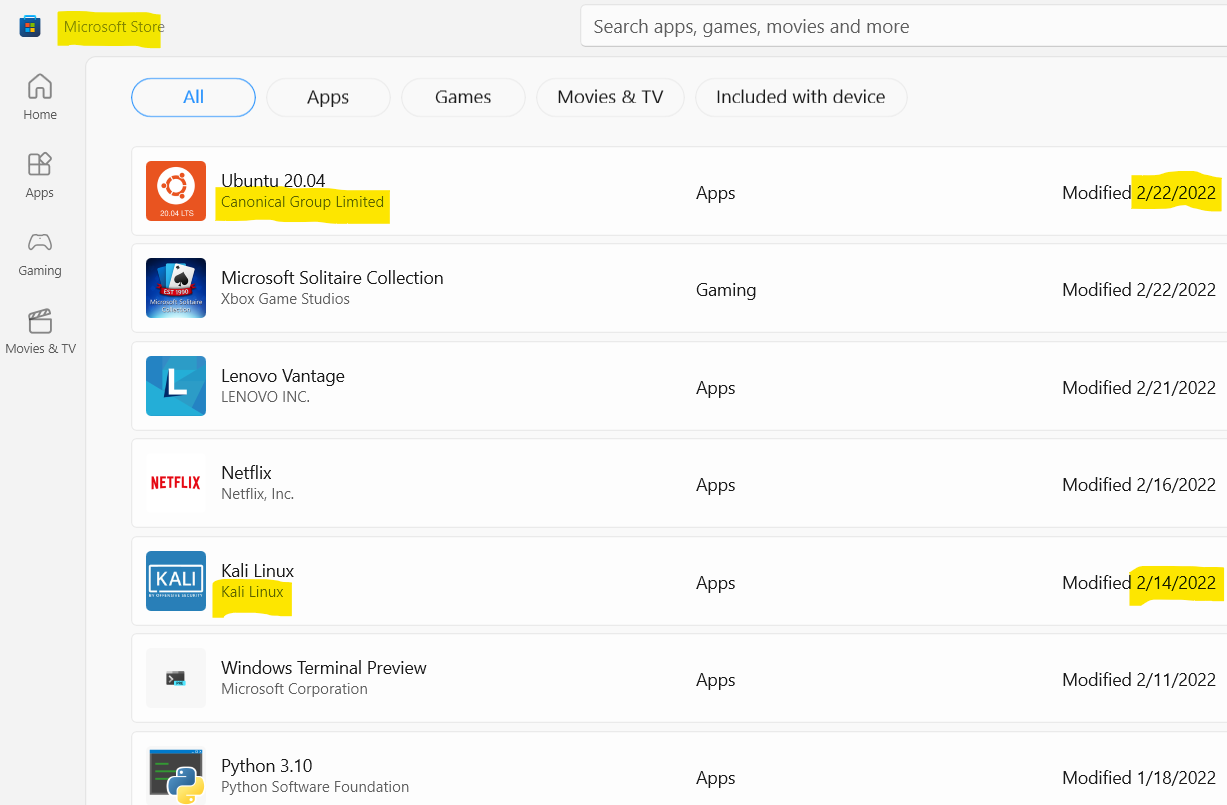
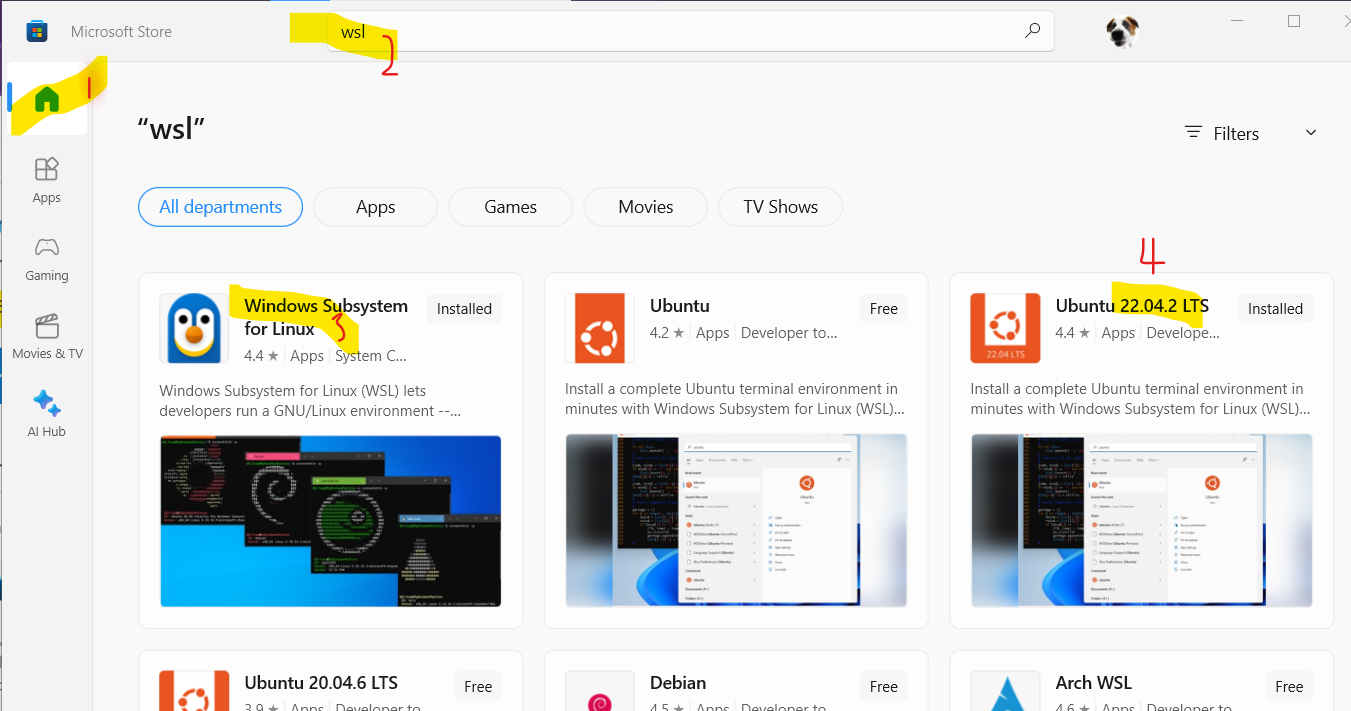
update for ubuntu

diff --git a/README.md b/README.md
@@ -1,44 +1,53 @@
-# kali-linux on Windows Subsystem for Linux (WSL)
+# Ubuntu on Windows Subsystem for Linux (WSL)
 
 ## WSL documentation
 
-For users running on Windows 10 / 11 there is support out of the box already for WSL: https://docs.microsoft.com/en-us/windows/wsl
+For users running on Windows 10 / 11 there is support out of the box already for WSL: <a href="https://docs.microsoft.com/en-us/windows/wsl" target="_blank">https://docs.microsoft.com/en-us/windows/wsl</a>
+
 
 <img src="wsl-documentation.png" alt="WSL documentation">
 
 
 ## Windows App Store
 
-All the kernels are directly supported and **patched** by the vendors on Microsoft App Store: https://www.microsoft.com/en-us/p/kali-linux/9pkr34tncv07
+All the kernels are directly supported and **patched** by the vendors on Microsoft App Store: <a href="https://apps.microsoft.com/store/detail/ubuntu-22042-lts/9PN20MSR04DW" target="_blank">https://apps.microsoft.com/store/detail/ubuntu-22042-lts/9PN20MSR04DW</a>
 
 <img src="Microsoft-Store.png" alt="Windows App Store">
 
 
-## Installing VirtualBox and Kali
+## Installing WSL2 and Ubuntu
 
-Instalation is as simple as the command below (that's it, nothing else): 
+Just hover over the 'Windows Subsystem for Linux' tile, click on 'Get' button, then follow the instructions. You would probably need to admin rigths and most likely will need to reboot.
+Then you can install Ubuntu 22.04.2 LTS (as of now it is the latest LTS), hover over the tile, click on 'Get' button, then follow the instructions. You do not need admin rigths and not need to reboot.
+
+The advantage of doing it with the app store is that you will get automatic updates both for WSL and Ubuntu. BTW, I also installed Visual Studio Code via the app store to get automatic updates as well.
+
+NOTE: You can do all that from the command line with out using the app store, there are instructions on the above links, but why go tru the hasle.
+
+
+## Fully supported by Canonical
+
+Fully suported by **canonical.com**: <a href="https://ubuntu.com/wsl" target="_blank">https://ubuntu.com/wsl</a>
+
+The link above provides plenty of documentation if needed: installation on WSL2, using GPU for machine learning, using VS Code, etc.
+
+
+## Visual Studio Code
+
+Just install VS Code also from the app store, and follow these tutorials:
+- <a href="https://ubuntu.com/tutorials/working-with-visual-studio-code-on-ubuntu-on-wsl2" target="_blank">https://ubuntu.com/tutorials/working-with-visual-studio-code-on-ubuntu-on-wsl2</a> Only follow steps 1-4, the rest of the steps are for NodeJS.
+- <a href="https://code.visualstudio.com/docs/languages/cpp" target="_blank">https://code.visualstudio.com/docs/languages/cpp</a> read, go to 'Go to the GCC tutorial'
+- <a href="https://code.visualstudio.com/docs/cpp/config-linux" target="_blank">https://code.visualstudio.com/docs/cpp/config-linux</a>
+
+Now you have your C/C++ Ubuntu environment fully integrated with VS Code: full debugging, syntax highling, etc. 
+
+Just open Ubuntu and from the shell clone your git repo and from the repo just type: 
+
 ```
-wsl --install -d kali-linux
-```
-<img src="kali-install.png" alt="Kali Installation">
-
-Then, update the packages needed by **CodePath**: https://github.com/0xrutvij/wpVSkali/blob/main/Dockerfile#L10
-```
-apt install aircrack-ng crackmapexec crunch curl dirb dirbuster dnsenum dnsrecon dnsutils dos2unix enum4linux exploitdb ftp git gawk gobuster hashcat hping3 hydra impacket-scripts john joomscan masscan metasploit-framework mimikatz nano nasm ncat netcat-traditional nikto nmap patator iputils-ping php powersploit proxychains python3-impacket python3-pip python2 python3 recon-ng responder samba samdump2 smbclient smbmap snmp socat sqlmap sslscan theharvester vim wafw00f weevely wfuzz wget whois wordlists wpscan -y --no-install-recommends
+code .
 ```
 
-## Fully supported by developers
-
-Fully suported by **kali.org**: https://www.kali.org/docs/wsl
-
-<img src="kali-support.png" alt="Kali support">
-
-
-## Docker support
-
-It fully suports **docker** if installed. Not only that but on windows the prefered virtualization engine is WSL: https://docs.docker.com/desktop/windows/wsl
-
-<img src="docker-support.png" alt="Docker support">
+<img src="ubuntu-debbuging.png" alt="Windows App Store">
 
 
 ## Full host integration

diff --git a/kali.md b/kali.md
@@ -1,0 +1,48 @@
+# kali-linux on Windows Subsystem for Linux (WSL)
+
+## WSL documentation
+
+For users running on Windows 10 / 11 there is support out of the box already for WSL: https://docs.microsoft.com/en-us/windows/wsl
+
+<img src="wsl-documentation.png" alt="WSL documentation">
+
+
+## Windows App Store
+
+All the kernels are directly supported and **patched** by the vendors on Microsoft App Store: https://www.microsoft.com/en-us/p/kali-linux/9pkr34tncv07
+
+<img src="Microsoft-Store.png" alt="Windows App Store">
+
+
+## Installing VirtualBox and Kali
+
+Instalation is as simple as the command below (that's it, nothing else): 
+```
+wsl --install -d kali-linux
+```
+<img src="kali-install.png" alt="Kali Installation">
+
+Then, update the packages needed by **CodePath**: https://github.com/0xrutvij/wpVSkali/blob/main/Dockerfile#L10
+```
+apt install aircrack-ng crackmapexec crunch curl dirb dirbuster dnsenum dnsrecon dnsutils dos2unix enum4linux exploitdb ftp git gawk gobuster hashcat hping3 hydra impacket-scripts john joomscan masscan metasploit-framework mimikatz nano nasm ncat netcat-traditional nikto nmap patator iputils-ping php powersploit proxychains python3-impacket python3-pip python2 python3 recon-ng responder samba samdump2 smbclient smbmap snmp socat sqlmap sslscan theharvester vim wafw00f weevely wfuzz wget whois wordlists wpscan -y --no-install-recommends
+```
+
+## Fully supported by developers
+
+Fully suported by **kali.org**: https://www.kali.org/docs/wsl
+
+<img src="kali-support.png" alt="Kali support">
+
+
+## Docker support
+
+It fully suports **docker** if installed. Not only that but on windows the prefered virtualization engine is WSL: https://docs.docker.com/desktop/windows/wsl
+
+<img src="docker-support.png" alt="Docker support">
+
+
+## Full host integration
+
+No need to mount to comunicate to the host, see bellow. Full clipboard (copy/paste) integration. Multiple GUIs support via Kali Desktop Experience (**kex**): https://www.kali.org/docs/wsl/win-kex
+
+<img src="https://docs.microsoft.com/en-us/windows/wsl/media/windows-file-explorer.png" alt="File Explorer">
